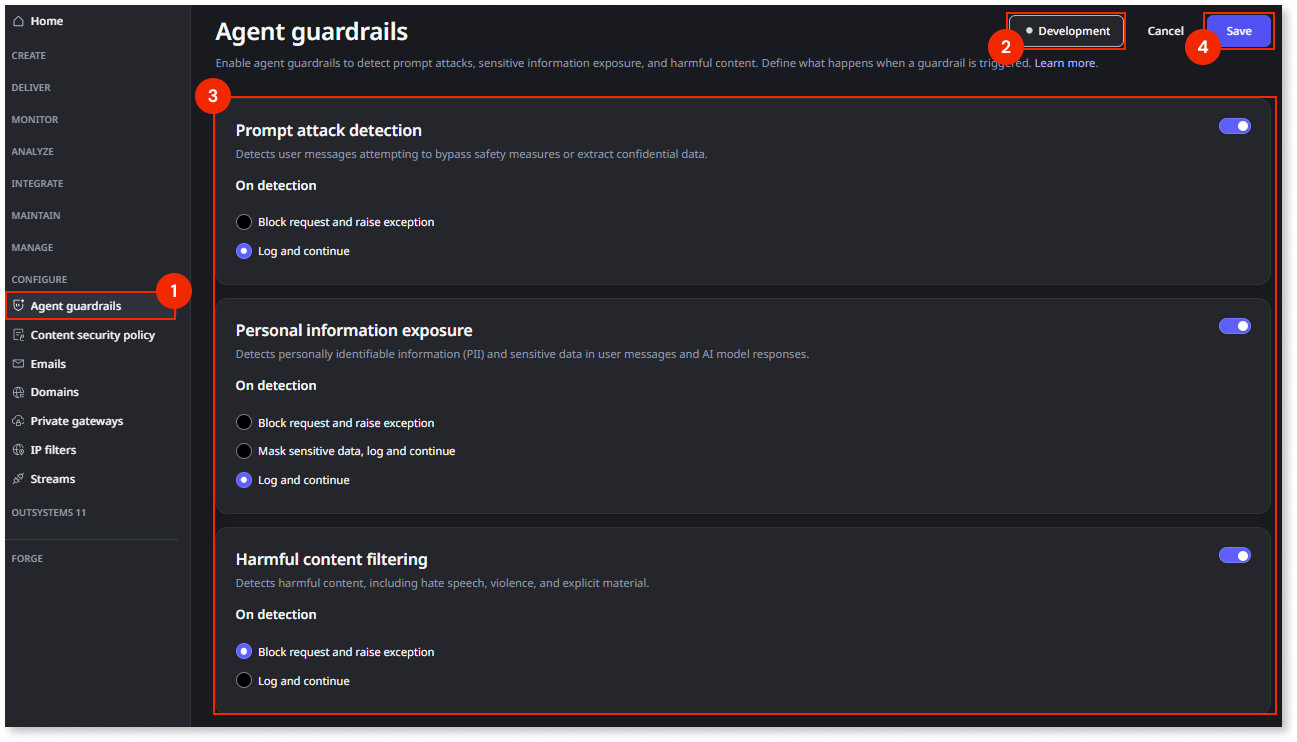
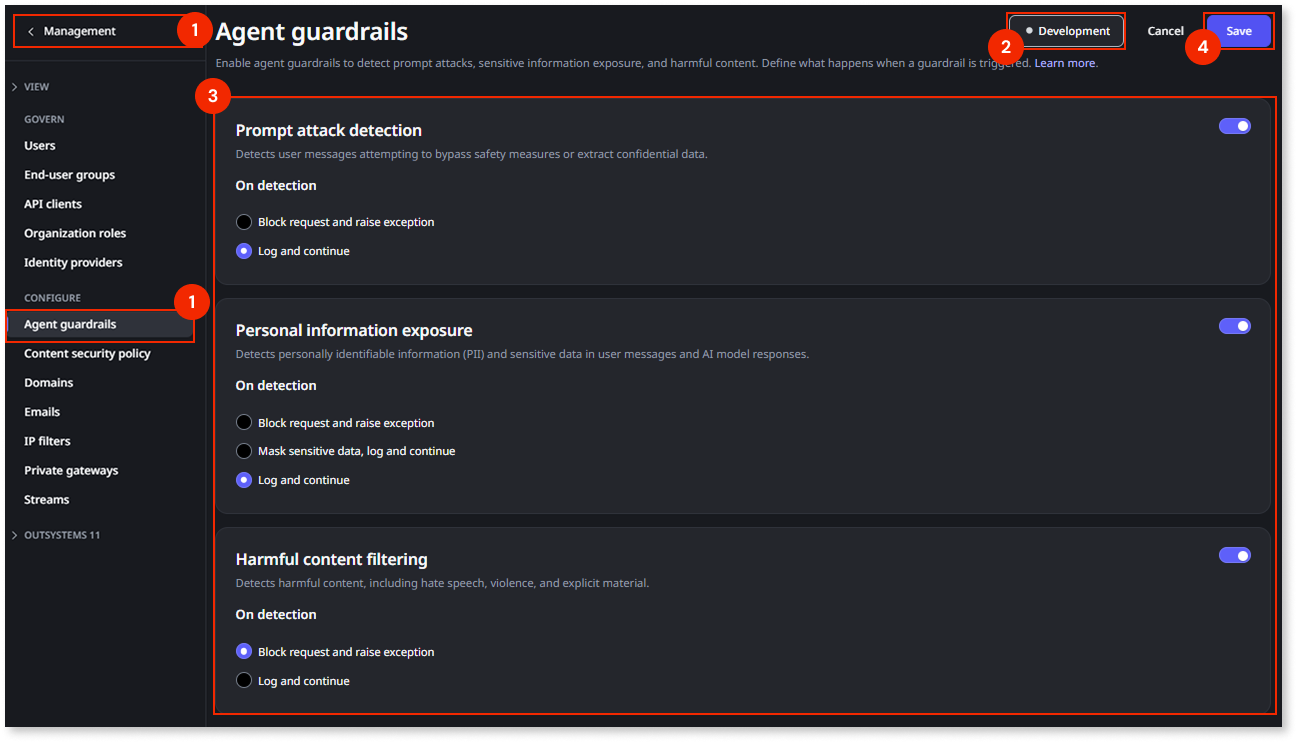
TK-21297 - Changes for VM2 (#2497)

Changed region(s): [[0.0, 0.155, 0.185, 0.7749], [0.0, 0.0, 0.0925, 0.124], [0.1234, 0.0, 0.185, 0.093]]

diff --git a/src/eap/building-apps/build-ai-powered-apps/configure-agent-guardrails.md b/src/eap/building-apps/build-ai-powered-apps/configure-agent-guardrails.md
@@ -10,19 +10,19 @@ app_type: reactive web apps,mobile apps
 platform-version: odc
 audience:
   - Platform administrator
-tags: ai governance, agent guardrails, configuration, safety, compliance, administration
+tags:
+  - Agentic
+  - AI
+  - Logging
+  - Monitoring
+  - Security
 outsystems-tools:
   - odc portal
 helpids: 30738, 30739
+isautopublish: true
 ---
 
 # Configure agent guardrails
-
-<div class="info" markdown="1">
-
-Agent guardrails are in Beta. For more information about Beta features, refer to [OutSystems product releases](https://success.outsystems.com/support/release_notes/outsystems_product_releases/#beta)
-
-</div>
 
 This article explains how to configure agent guardrails in the ODC Portal. You can establish high-level safety policies at the stage level and then enable them for specific agents.
 
@@ -38,13 +38,13 @@ Before you configure agent guardrails, ensure that you have:
 
 * **AI agents**: At least one AI agent created in your organization. If you need to create agents first, refer to [Creating an agent](create-agent.md).
 
-## Configure stage-level guardrails
+## Configure baseline guardrails
 
-Stage-level configuration allows you to set safety standards appropriate for each environment in your development lifecycle. For example, you can choose strict blocking rules for **Production** while allowing logging-only rules in **Development**.
+Baseline configuration allows you to set safety standards appropriate for each stage in your development lifecycle. For example, you can choose strict blocking rules for **Production** while allowing logging-only rules in **Development**.
 
-To configure guardrails for a stage:
+To configure baseline guardrails for a stage:
 
-1. In the ODC Portal, navigate to **CONFIGURE** > **Agent guardrails**.
+1. In the ODC Portal, navigate to **Management** > **CONFIGURE** > **Agent guardrails**.
 
 1. Select the target stage: **Development**, **QA**, or **Production**.
 
@@ -58,23 +58,53 @@ To configure guardrails for a stage:
 
 1. Click **Save**.
 
+1. A confirmation popup appears, indicating that your changes are being applied to all agents of that stage. Click **Save** to proceed.
+
 1. Repeat these steps for other stages as needed.
 
-![Screenshot of the Agent guardrails configuration page in the ODC Portal, showing options for prompt attack detection, personal information exposure, and harmful content filtering.](images/config-stage-pl.png "Configuring Agent Guardrails in ODC Portal")
+![ODC Portal Management page showing the Agent guardrails screen for the Development stage, with prompt attack detection, personal information exposure, and harmful content filtering options highlighted and a Save button in the top-right corner.](images/config-stage-pl.png "Configure stage-level agent guardrails in the ODC Portal")
 
-## Enable agent-level guardrails
+## Agent-level guardrails
 
-Once stage policies are defined, you must enable them for your agents. You can toggle guardrails on or off for specific agents within each stage, allowing you to tailor protection based on the agent's risk profile.
+Agent-level guardrails have two different use cases:
 
-To configure guardrails for an agent:
+* **Override baseline guardrails policies**: If you have a baseline guardrails policy in place but want to enforce stricter rules for a specific agent, you can enable guardrails at the agent level.
+
+    For example, if you set a policy to "Log and continue" at the stage level, you can choose to "Block and raise exception" for a specific agent that handles sensitive data, while allowing other agents in the same stage to follow the more lenient policy.
+
+* **Enable guardrails without baseline policies**: If you haven't defined any baseline policies, you can enable guardrails directly on specific agents. This allows you to apply protections to high-risk agents without enforcing them across the entire stage.
+
+### Override baseline guardrails policies
+
+To configure guardrails for an agent that has baseline guardrails policies:
 
 1. In the ODC Portal, navigate to your target agent app.
 
 1. Select the stage (**Development**, **QA**, **Production**) where you want to modify settings.
 
-1. Locate the guardrails settings and toggle it to enable or disable.
+1. Under the **Agent elements** tab you can see the current inherited configuration for the guardrail. Click **Edit** to override the currently defined policies:
 
-![Screenshot of the ODC Portal showing the option to enable guardrails for an agent.](images/config-agent-pl.png "Enable Guardrails for an Agent")
+    ![Agent elements tab for an agent in the ODC Portal showing inherited guardrails with prompt attack detection and personal information exposure set to Log and continue, and an Edit button on the right.](images/override-guardrail-landing-pl.png "View inherited guardrails for an agent")
+
+1. Select the desired policy for each filter, and click Save to commit the change.
+
+    ![Agent elements tab in edit mode where prompt attack detection is set to Block request and raise exception instead of Log and continue, with a Save button highlighted on the right.](images/override-guardrail-edit-pl.png "Override stage-level guardrails for an agent")
+
+### Enable guardrails without baseline policies
+
+To configure guardrails for an agent without baseline policies:
+
+1. In the ODC Portal, navigate to your target agent app.
+
+1. Select the stage (**Development**, **QA**, **Production**) where you want to modify settings.
+
+1. Under the **Agent elements** tab you can see the current guardrails state for the agent, click **Edit** to enable or change the current guardrails for the agent:
+
+    ![Agent elements tab for an agent in the ODC Portal showing prompt attack detection, personal information exposure, and harmful content filtering all marked as Inactive, with an Edit button on the right.](images/agent-guardrail-landing-pl.png "Agent with guardrails disabled at the agent level")
+
+1. Click the toggle to enable the policy, select the desired policy for each filter, and click Save to commit the change
+
+    ![Agent elements tab in edit mode where the prompt attack detection toggle is enabled, Block request and raise exception is selected, and a Save button is highlighted while other guardrails remain disabled.](images/agent-guardrail-config-pl.png "Enable and configure guardrails for an agent without stage policies")
 
 ## Handling violations
 
@@ -99,7 +129,3 @@ To view guardrail logs:
 1. Filter for guardrail events to review specific violations or interventions.
 
 For more information about logs, refer to [Monitoring and troubleshooting apps](../../monitor-and-troubleshoot/monitor-apps.md#logs).
-
-## Known issues
-
-Guardrail logs currently don't display the name of the app that triggered the guardrail. In the **Asset** column of the log entry, the ODC Portal displays a placeholder image and no name.

diff --git a/src/eap/building-apps/build-ai-powered-apps/guardrails.md b/src/eap/building-apps/build-ai-powered-apps/guardrails.md
@@ -10,9 +10,14 @@ topic:
 app_type: reactive web apps,mobile apps
 platform-version: odc
 audience:
-  - Platform administrator
   - Developer
-tags: ai governance, agent guardrails, content filtering, data protection, risk prevention
+  - Platform administrator
+tags:
+  - Agentic
+  - AI
+  - Logging
+  - Monitoring
+  - Security
 outsystems-tools:
   - odc portal
 helpids: 30739
@@ -20,12 +25,6 @@ isautopublish: true
 ---
 
 # Agent guardrails
-
-<div class="info" markdown="1">
-
-Agent guardrails are in Beta. For more information about Beta features, refer to [OutSystems product releases](https://success.outsystems.com/support/release_notes/outsystems_product_releases/#beta)
-
-</div>
 
 Agent guardrails are a safety and governance layer designed to ensure your AI agents behave responsibly. They act as an interceptor between your agent and the AI model, monitoring both user inputs (prompts) and model outputs (responses) in real-time.
 
@@ -92,7 +91,7 @@ If your environment is hosted in a Basic coverage region, guardrails only functi
 
 ### Unsupported regions
 
-Guardrails are currently unavailable in the following regions. In these regions, the Guardrail Runtime service isn't accessible, and safety rules can't be applied to agent transactions.
+Guardrails don't operate in the following regions. The Guardrail Runtime service doesn't run in these regions, so it doesn't enforce safety rules on agent transactions.
 
 * Cape Town (af-south-1)
 
@@ -124,7 +123,7 @@ You can configure different dimensions of protection. To ensure optimal performa
 
 ### Action to take on detection
 
-When a violation is detected, the guardrail performs one of the following actions based on your configuration:
+When the guardrail detects a violation, it performs one of the following actions based on your configuration:
 
 * **Block request and raise exception**: Stops the transaction entirely.
 
@@ -140,11 +139,13 @@ When a violation is detected, the guardrail performs one of the following action
 
 ## Configuration
 
-Guardrails are managed directly within the ODC Portal. To balance governance with flexibility, configuration occurs at two levels:
+You manage guardrails directly in the ODC Portal. To balance governance with flexibility, you configure guardrails at two levels:
 
-* **Stage level**: Defines the baseline safety standards (severity and enforcement) for each environment (Development, QA, Production).
+* **Baseline guardrails***: Sets the baseline safety standards (severity and enforcement) for each environment (Development, QA, Production). When you enable a stage-level policy, it applies to every agent in that stage.
 
-* **Agent level**: Enables or disables the stage-level guardrails for specific agents.
+* **Agent level guardrails**: If there's no baseline guardrails defined, you can enable guardrails on a per-agent basis. This allows you to apply specific protections to high-risk agents without enforcing them across the board.
+
+If there are baseline guardrails defined, you can make the guardrail stricter at the agent level, but not more lenient. For example, if you set a policy to "Log and continue" at the stage level, you can choose to "Block and raise exception" for a specific agent, but not the other way around.
 
 The following diagram shows a possible guardrail configuration by stage:
 
